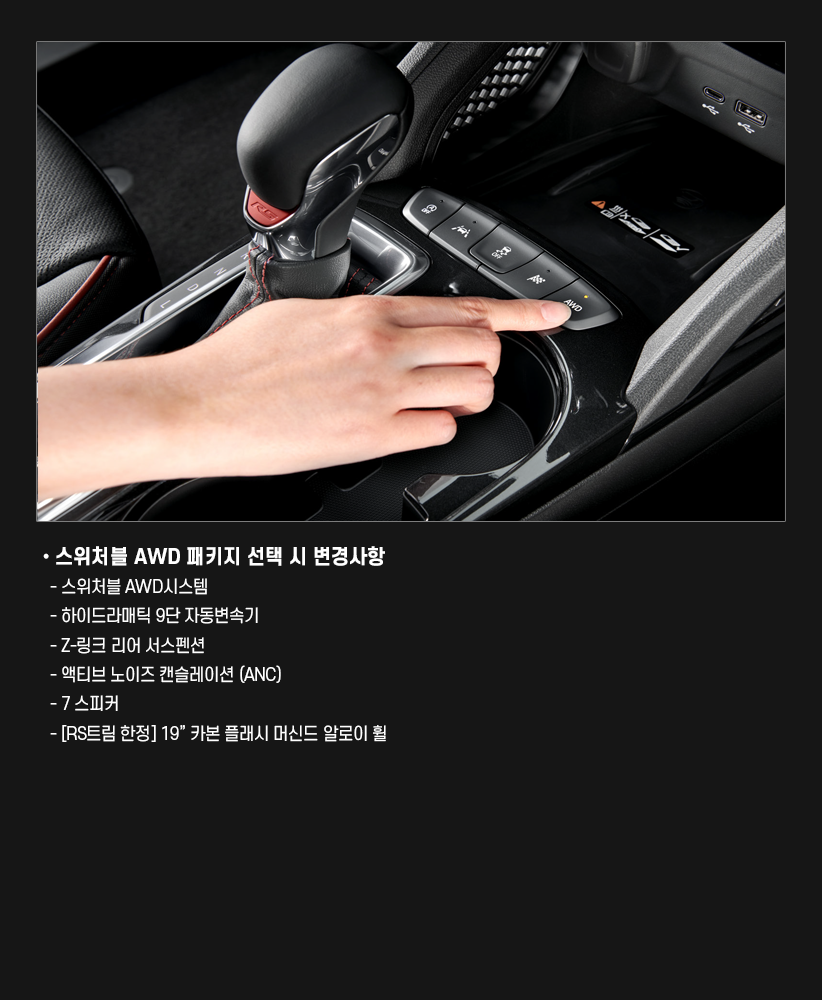
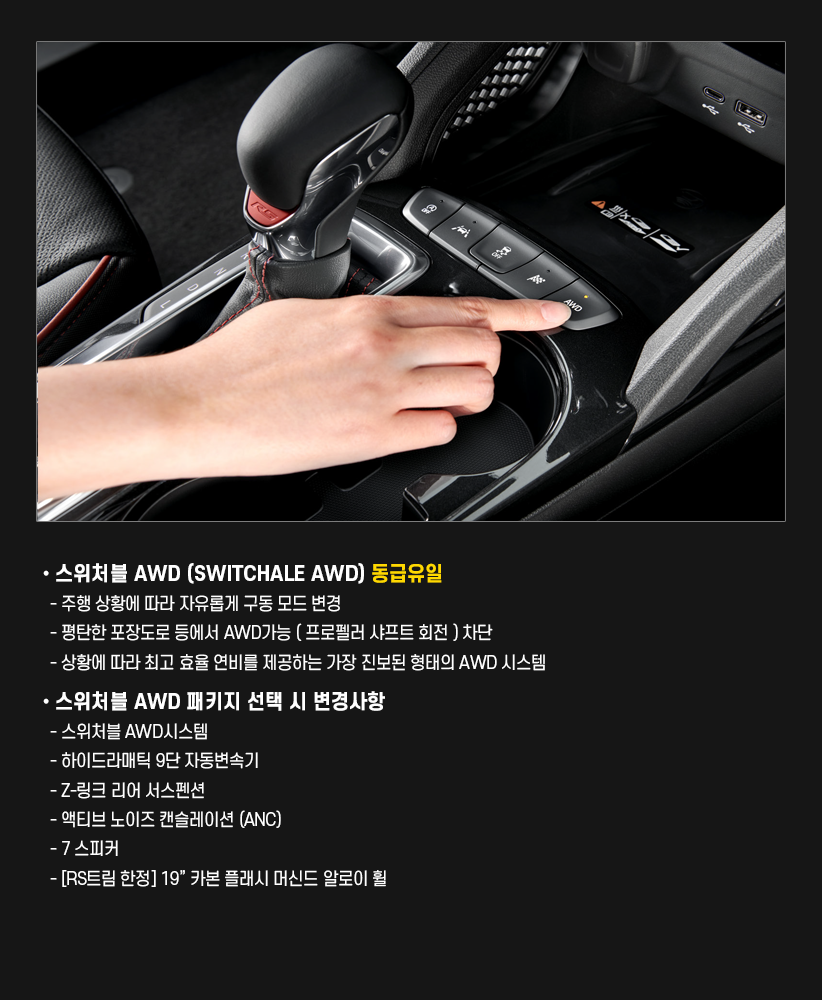
#2 컨펌 수정1차

Changed region(s): [[0.0608, 0.527, 0.6691, 0.899]]

diff --git a/src/pages/modal/Modal.js b/src/pages/modal/Modal.js
@@ -4,6 +4,10 @@ import { setModalChange,setVideoPlay,setvideoVersion } from "../../store";
 import "../../css/modal.css"
 import { useEffect } from "react";
 
+import M_004_1 from "../../assets/img/modal/M_004_1.jpg"
+import M_004_2 from "../../assets/img/modal/M_004_2.jpg"
+import M_004_3 from "../../assets/img/modal/M_004_3.jpg"
+
 //모달창 클릭하면 안전사양과 관련 영상에는 영상 링크(modalbiedo가 열리기)
 //클릭에 따라서 영상 링크 변형하기
 //x누르면 영상만 닫히게 만들기(z-index로 다른 버튼임)
@@ -88,10 +92,10 @@ function ModalClick1({modalData}){
     <div className="modal-cont-wrapper scrollBar">
       <div className="modal-cont modal-cont3"></div>
       <div className="modal-cont modal-cont3-1 cusor-over">
-        <span onClick={()=>{safety("https://www.youtube.com/embed/0pvwxNJ19Ek")}} className="safty-click1"></span>
+        <span onClick={()=>{safety("https://www.youtube.com/embed/sOOuMtHWoNA")}} className="safty-click1"></span>
         <span onClick={()=>{safety("https://www.youtube.com/embed/M772UJcD6Ho")}} className="safty-click2"></span>
       </div>
-      <div onClick={()=>{safety("https://youtu.be/FhdMUDq9Cug")}}className="modal-cont modal-cont3-2 cusor-over"></div>
+      <div onClick={()=>{safety("https://www.youtube.com/embed/0pvwxNJ19Ek")}}className="modal-cont modal-cont3-2 cusor-over"></div>
       <div className="modal-cont modal-cont3-3"></div>
       <div className="modal-cont modal-cont3-4"></div>
       <div onClick={()=>{safety("https://www.youtube.com/embed/s-3wQ6JbCpQ")}} className="modal-cont modal-cont3-5 cusor-over"></div>
@@ -111,9 +115,9 @@ function ModalClick2({modalData}){
     <>
      <img className="modal-title" src={modalData[3].title}></img>
        <div className="modal-cont-wrapper scrollBar">
-      <div onClick={()=>{safety("https://www.youtube.com/embed/FhdMUDq9Cug")}} className="modal-cont modal-video modal-cont4-1 cusor-over"></div>
-      <div onClick={()=>{safety("https://www.youtube.com/embed/nBvxi_iEiFI")}} className="modal-cont modal-video modal-cont4-2 cusor-over"></div>
-      <div onClick={()=>{safety("https://www.youtube.com/embed/RWPUAu5pmKs")}} className="modal-cont modal-video modal-cont4-3 cusor-over"></div>
+        <img onClick={()=>{safety("https://www.youtube.com/embed/FhdMUDq9Cug")}} className="modal-video cusor-over" src={M_004_1}></img>
+        <img onClick={()=>{safety("https://www.youtube.com/embed/nBvxi_iEiFI")}} className="modal-video cusor-over" src={M_004_2}></img>
+        <img onClick={()=>{safety("https://www.youtube.com/embed/RWPUAu5pmKs")}} className="modal-video cusor-over" src={M_004_3}></img>
     </div>
     </>
   )

diff --git a/public/pdf/Catalog.htm b/public/pdf/Catalog.htm
@@ -263,12 +263,12 @@ See https://github.com/adobe-type-tools/cmap-resources
                 </div>
                 <span id="scaleSelectContainer" class="dropdownToolbarButton">
                   <select id="scaleSelect" title="Zoom" tabindex="23" data-l10n-id="zoom">
-                    <option id="pageAutoOption" title="" value="auto" selected="selected" data-l10n-id="page_scale_auto">Automatic Zoom</option>
+                    <option id="pageAutoOption" title="" value="auto" data-l10n-id="page_scale_auto">Automatic Zoom</option>
                     <option id="pageActualOption" title="" value="page-actual" data-l10n-id="page_scale_actual">Actual Size</option>
                     <option id="pageFitOption" title="" value="page-fit" data-l10n-id="page_scale_fit">Page Fit</option>
                     <option id="pageWidthOption" title="" value="page-width" data-l10n-id="page_scale_width">Page Width</option>
                     <option id="customScaleOption" title="" value="custom" disabled="disabled" hidden="true"></option>
-                    <option title="" value="0.5" data-l10n-id="page_scale_percent" data-l10n-args='{ "scale": 50 }'>50%</option>
+                    <option title="" value="0.5" data-l10n-id="page_scale_percent" selected="selected" data-l10n-args='{ "scale": 50 }'>50%</option>
                     <option title="" value="0.75" data-l10n-id="page_scale_percent" data-l10n-args='{ "scale": 75 }'>75%</option>
                     <option title="" value="1" data-l10n-id="page_scale_percent" data-l10n-args='{ "scale": 100 }'>100%</option>
                     <option title="" value="1.25" data-l10n-id="page_scale_percent" data-l10n-args='{ "scale": 125 }'>125%</option>

diff --git a/src/assets/hotspotData.js b/src/assets/hotspotData.js
@@ -174,7 +174,7 @@ let hotspotdata=[
     //ACTIV 드라이브
       css:["hotspot-3","hotspot-4","hotspot-9","hotspot-11","hotspot-12","hotspot-18","hotspot-19",
       "hotspot-22","hotspot-25","hotspot-29"],
-      intro:['11"컬러 터치스크린','8"컬러 클러스터',"ACTIV 인테리어","스위쳐블 AWD","자동변속기 (트랜스미션)",
+      intro:['11"컬러 터치스크린','8"컬러 클러스터',"ACTIV 인테리어","스위처블 AWD","자동변속기 (트랜스미션)",
       "USB포트와 스마트폰 무선충전 시스템","듀얼존 풀 오토 에어컨 (DUAL ZONE FULL AUTO A/C)",
       "어댑티브 크루즈 컨트롤","BOSE® 프리미엄 오디오 시스템 (7 스피커)","무선 폰 프로젝션"
     ],
@@ -217,7 +217,7 @@ let hotspotdata=[
     //RS드라이브
       css:["hotspot-3","hotspot-4","hotspot-9","hotspot-11","hotspot-12","hotspot-18",
       "hotspot-19","hotspot-22","hotspot-25","hotspot-29"],
-      intro:['11"컬러 터치스크린','8"컬러 클러스터',"RS 인테리어","스위쳐블 AWD","자동변속기 (트랜스미션)","USB포트와 스마트폰 무선충전 시스템",
+      intro:['11"컬러 터치스크린','8"컬러 클러스터',"RS 인테리어","스위처블 AWD","자동변속기 (트랜스미션)","USB포트와 스마트폰 무선충전 시스템",
       "듀얼존 풀 오토 에어컨 (DUAL ZONE FULL AUTO A/C)","어댑티브 크루즈 컨트롤","BOSE® 프리미엄 오디오 시스템 (7 스피커)","무선 폰 프로젝션"
     ],
       img:[{title:in_003_t,cont:in_003},{title:in_004_t,cont:in_004},{title:in_009_rs_t,cont:in_009_rs},{title:in_011_t,cont:in_011}

diff --git a/src/pages/Interior.js b/src/pages/Interior.js
@@ -27,8 +27,6 @@ function Interior(){
   const [maxX,setMaxX]= useState(0)// 최대 X 위치
   const [maxY,setMaxY] = useState(0)//최대 Y위치
 
-  //console.log("minX: "+minX+"minY: "+minY+"maxX: "+"maxY: "+maxY)
-  
   //휠로드래그하기
   const handleMouseUp = (e) => {
     e.preventDefault();
@@ -38,14 +36,12 @@ function Interior(){
   const handleWheel = (e) => {
     e.preventDefault();
     const newScale = scale + (e.deltaY * 0.5) * -0.01;
-    console.log(newScale)
-
     if (newScale >= 1 && newScale < 2.5) {
       setScale(newScale);
-      setMinX(-(250*scale));
-      setMinY(-(200*scale));
-      setMaxX((250*scale))
-      setMaxY((200*scale))
+      setMinX(-(window.innerWidth*scale*0.15));
+      setMinY(-(window.innerHeight*scale*0.15));
+      setMaxX((window.innerWidth*scale*0.15))
+      setMaxY((window.innerHeight*scale*0.15))
     }
     else if(newScale == 0.5){
       setMinX(-0);
@@ -62,6 +58,7 @@ function Interior(){
       setScale(newScale);
     }
   };
+
   //마우스 드래그
   const handleMouseDown = (e) => {
     e.preventDefault();
@@ -232,7 +229,7 @@ function Interior(){
         width: "100%"
       }}
       className="in_wrapper image-container">
-        {on ? <HotSpot scale={scale} positionX={position.x}positionY={position.y}/>:null}
+        {on ? <HotSpot/>:null}
         {interiorType ?
         <img className="in_img"
         ref={imageRef}

diff --git a/src/pages/modal/HotspotModal.js b/src/pages/modal/HotspotModal.js
@@ -11,10 +11,6 @@ function HotSpotModal(){
     let versionState = useSelector(state=>state.version)
     //정측후면 데이터
     let carFaceState = useSelector(state=>state.carFace);
-    //인,아웃 전환
-    let outInChangeState = useSelector(state=>state.outInChange)
-    //인테리어 내부 샷 변환
-    let interiorType = useSelector(state=>state.interiorType)
     //선택한 모달창
     let hotspotImg = useSelector(state=>state.hotspotImg);
     //모달창 끄기
@@ -22,8 +18,7 @@ function HotSpotModal(){
     //모달창 이미지 선택
     let [modalImg,setModalImg] = useState(hotspotState[versionState][carFaceState].img);
 
-    
-
+  
     useEffect(()=>{
       var modalImgCopy
 

diff --git a/src/pages/modal/HotSpot.js b/src/pages/modal/HotSpot.js
@@ -60,7 +60,6 @@ function HotSpot(){
   const [isHovered, setIsHovered] = useState(false);
   const [tooltipPosition, setTooltipPosition] = useState([{top:0,left:0}]);
   const [hotInfo,setHotInfo] = useState();
-  const [mousePosition, setMousePosition] = useState({ x: 0, y: 0 });
 
   const handleMouseEnter = (i,e) => {
     setIsHovered(true);

diff --git a/src/pages/modal/HotspotModalIN.js b/src/pages/modal/HotspotModalIN.js
@@ -18,7 +18,6 @@ function HotSpotModalIN(){
     let hotState = useSelector(state=>state.hopspotModal)
     //모달창 이미지 선택
     let [modalImg,setModalImg] = useState(hotspotState[versionState][3].img);
-    console.log(modalImg)
 
     useEffect(()=>{
       var modalImgCopy

diff --git a/src/assets/color.js b/src/assets/color.js
@@ -7,7 +7,6 @@ let color = [
   ["color1","color6","color7","color8","color9","color10"],
   //RS컬러
   ["color11","color5","color12","color13","color14","color15","color16","color17"]
-
 ]
 
 export default color;

diff --git a/src/css/modal.css b/src/css/modal.css
@@ -142,8 +142,6 @@ background-position: top;
 /* 관련영상 */
 .modal-video{
   width: 100%;
-  height: 300px;
-
 }
 .modal-cont4-1{
   background: url("../assets/img/modal/M_004_1.jpg"); 

diff --git a/src/assets/menuModal.js b/src/assets/menuModal.js
@@ -8,8 +8,6 @@ import M_005_T from "../assets/img/modal/M_005_T.png"
 
 //1:변경이력,2:핵심세일즈 포인트,3:안전사양,4:관련영상,5:제원
 
-
-
 let menuModal = [
   
   {

diff --git a/src/css/hotspot.css b/src/css/hotspot.css
@@ -166,7 +166,7 @@
   top: 49%;
 }
 .hotspot-16-tip{
-  left: 310%;
+  left: 31%;
   top: 51%;
 }
 .hotspot-17{
